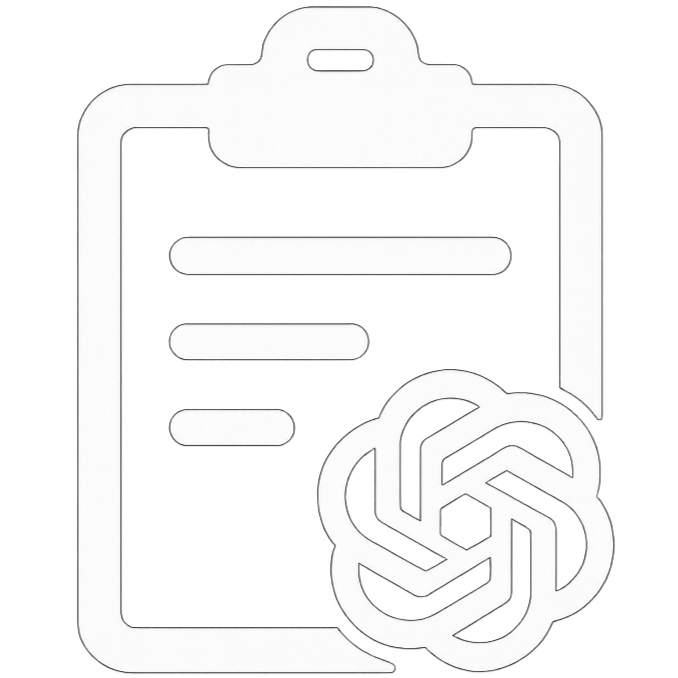
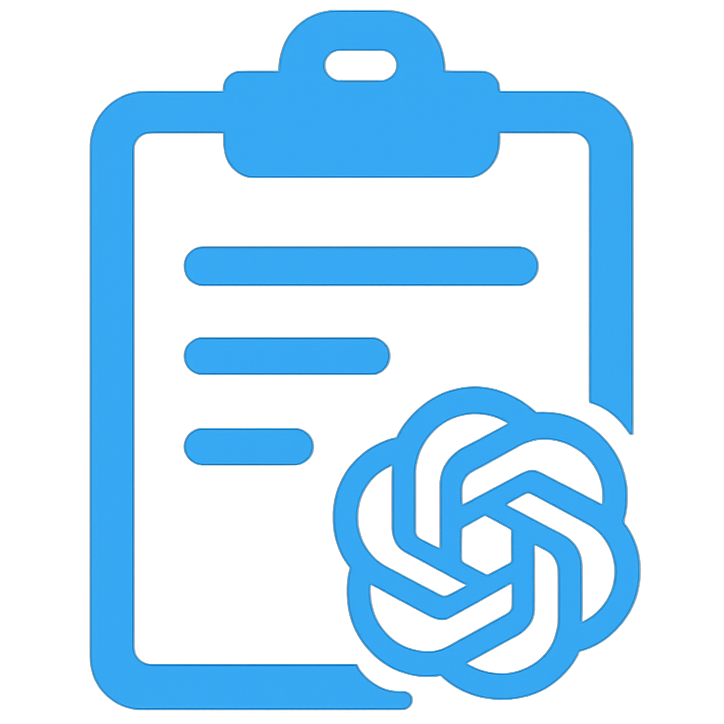
수정 저장버튼 위치조절, 이미지화, 파비콘 변경, 모바일 화면 cliplist maxheight조정 데스크톱버전에서 로그아웃, 다크모드 버튼 clipcontent가 길어서 아래로 스크롤해도 안따라가게 고정시킴

diff --git a/src/clip.js b/src/clip.js
@@ -144,83 +144,70 @@ export function renderClipList(categoryId) {
 export function renderClipContent(clip) {
   setCurrentClip(clip);
   const container = document.querySelector(".clip-content");
-  container.innerHTML = `
-    <h3>${clip.title}</h3>
- 
-    <div>${marked.parse(clip.content)}</div>
-    <p class="clip-from" style="font-size: 0.9em; color: #888;">
+  const contentArea = container.querySelector(".clip-body");
+
+  contentArea.innerHTML = `
+    <h1 title="${clip.title}">${clip.title}</h1>
+    <div class="controls">
+      <button class="edit" data-mode="edit" title="클립 수정">  
+        <img class='editCilp' src="./image/editClip.png" alt="수정" />
+      </button>
+    </div> 
+    <div class="markdown-content" title="클립 내용">${marked.parse(
+      clip.content
+    )}</div>
+    <p class="clip-from" style="font-size: 0.9em; color: #888;" title="출처">
       출처: ${clip.from || "없음"}
     </p>
-    <div class="controls">
-      <button class="edit" data-mode="edit">수정</button>
-    </div>
   `;
   container.classList.remove("hidden");
 
-  container.querySelector(".edit").addEventListener("click", () => {
-    enableClipEdit(container, clip);
+  contentArea.querySelector(".edit").addEventListener("click", () => {
+    enableClipEdit(contentArea, clip);
   });
 }
 
 function enableClipEdit(container, clip) {
-  const titleEl = container.querySelector("h3");
-  const contentEl = container.querySelector("div");
-
-  if (!titleEl || !contentEl) return;
-
-  const fromEl = container.querySelector(".clip-from");
-  if (fromEl) fromEl.remove();
-
-  const originalTitle = clip.title;
-  const originalContent = clip.content;
-
   const titleInput = document.createElement("input");
   titleInput.className = "temp-input";
-  titleInput.value = originalTitle;
+  titleInput.value = clip.title;
 
   const contentInput = document.createElement("textarea");
   contentInput.className = "temp-input";
-  contentInput.value = originalContent;
-  contentInput.rows = 6;
+  contentInput.value = clip.content;
+  contentInput.rows = 10;
 
   const fromInput = document.createElement("input");
   fromInput.className = "temp-input";
   fromInput.value = clip.from || "";
   fromInput.placeholder = "출처 입력 (예: 채팅방 이름)";
 
-  titleEl.replaceWith(titleInput);
-  contentEl.replaceWith(contentInput);
-  container.insertBefore(fromInput, container.querySelector(".controls"));
+  const saveButton = document.createElement("button");
+  saveButton.className = "edit";
+  saveButton.innerHTML = `<img src="./image/saveClip.png" title="클립 저장" alt="저장" style="height: 24px;" />`;
+  saveButton.style.backgroundColor = "transparent";
+  saveButton.style.border = "none";
+  saveButton.setAttribute("data-mode", "save");
 
-  const button = container.querySelector(".edit");
-  button.textContent = "저장";
-  button.style.backgroundColor = "#ff3b30"; // 붉은색
-  button.setAttribute("data-mode", "save");
+  container.innerHTML = ""; // 이전 내용 초기화
 
-  const save = () => {
+  container.appendChild(titleInput); // 제목
+  container.appendChild(saveButton); // 저장 버튼
+  container.appendChild(contentInput); // 내용
+  container.appendChild(fromInput); // 출처
+
+  saveButton.onclick = () => {
     const newTitle = titleInput.value.trim();
     const newContent = contentInput.value.trim();
     const newFrom = fromInput.value.trim();
-
     if (!newTitle || !newContent) return;
 
-    // 데이터 반영
     clip.title = newTitle;
     clip.content = newContent;
     clip.from = newFrom;
-    setClipData([...clipData]); // 🔥 Firestore 동기화
 
-    const clipEls = document.querySelectorAll(".clip");
-    clipEls.forEach((el) => {
-      if (el.dataset.id === clip.id) {
-        const titleEl = el.querySelector(".title");
-        if (titleEl) titleEl.textContent = newTitle;
-      }
-    });
-    // 다시 렌더링
-    renderClipList(clip.categoryId); // ✅ 리스트 다시 렌더링
-    renderClipContent(clip); // ✅ 오른쪽도 다시 렌더링
+    setClipData([...clipData]); // Firestore 반영
+    renderClipList(clip.categoryId);
+    renderClipContent(clip);
   };
-
-  button.addEventListener("click", save);
 }

diff --git a/style.css b/style.css
@@ -207,6 +207,7 @@ input.temp-input:focus {
 }
 .clip input.temp-input {
   flex: 1;
+  margin: 5px 0;
   padding: 6px 8px;
   font-size: 14px;
   border: 1px solid #ccc;
@@ -236,20 +237,24 @@ textarea.temp-input {
 
 /* 클립 내용 */
 .clip-content {
-  /* width: 40%; */
+  position: relative;
   flex: 0.55;
   padding: 20px;
   background-color: #e9e9e9;
   overflow-y: auto;
   padding-top: 35px;
 }
-
-.clip-content h3 {
-  margin-top: 0;
+.button-bar {
+  position: absolute;
+  right: 0;
 }
 
-.clip-content .controls {
-  margin-top: 15px;
+.button-bar button,
+.button-bar .darkmode-toggle {
+  margin-left: 10px;
+}
+.clip-content h3 {
+  margin-top: 0;
 }
 
 button {
@@ -262,14 +267,17 @@ button {
 }
 
 button.edit {
-  background-color: #007aff;
+  background-color: transparent;
   color: white;
+}
+button.edit img {
+  width: 50px;
+  height: 50px !important;
 }
 .darkmode-toggle {
   position: absolute;
-  top: 20px;
+  top: -30px;
   right: 120px;
-  z-index: 20;
   cursor: pointer;
 }
 
@@ -306,7 +314,6 @@ body:not(.dark-mode) .toggle-icon::before {
   align-items: center;
   flex-direction: column;
   overflow: hidden;
-  z-index: 0;
 }
 
 .auth-area::before {
@@ -318,12 +325,10 @@ body:not(.dark-mode) .toggle-icon::before {
   bottom: 0;
   backdrop-filter: blur(2px);
   background-color: rgba(0, 0, 0, 0.2);
-  z-index: 1;
 }
 
 .auth-area * {
   position: relative;
-  z-index: 2;
 }
 
 #login-btn {
@@ -343,13 +348,9 @@ body:not(.dark-mode) .toggle-icon::before {
 /* 🔥 로그아웃 버튼은 고정된 오른쪽 상단 */
 #logout-btn {
   position: absolute;
-  top: 10px;
+  top: -40px;
   right: 20px;
   background-color: transparent;
-  font-weight: bold;
-  border-radius: 6px;
-  border: none;
-  z-index: 10;
   padding: 0;
   margin: 0;
 }
@@ -357,9 +358,9 @@ body:not(.dark-mode) .toggle-icon::before {
   width: 100px;
   height: 100px;
 }
-.hidden {
+/* .hidden {
   display: none !important;
-}
+} */
 
 @media (max-width: 1000px) {
   .app-container {
@@ -405,12 +406,11 @@ body:not(.dark-mode) .toggle-icon::before {
     border-top: none;
     overflow-x: hidden;
     border-bottom: 2px solid #4aa055;
+    max-height: 400px; /* 모바일에서 높이 제한 */
   }
-
   .clip-content {
     margin-top: 0;
   }
-
   /* 버튼 여백 정리 */
   .add-category,
   .add-clip,

diff --git a/index.html b/index.html
@@ -34,11 +34,22 @@
       </section>
 
       <!-- 클립 내용 보기 -->
-      <section class="clip-content"></section>
-      <label class="darkmode-toggle hidden">
-        <input type="checkbox" id="toggle-darkmode" hidden />
-        <span class="toggle-icon"></span>
-      </label>
+      <section class="clip-content">
+        <div class="button-bar">
+          <button id="logout-btn" class="hidden">
+            <img
+              id="logout-img"
+              src="./image/logoutForBright.png"
+              alt="logout"
+            />
+          </button>
+          <label class="darkmode-toggle hidden">
+            <input type="checkbox" id="toggle-darkmode" hidden />
+            <span class="toggle-icon"></span>
+          </label>
+        </div>
+        <div class="clip-body"></div>
+      </section>
     </div>
 
     <div class="auth-area">
@@ -46,8 +57,5 @@
         <img class="googleAuth" src="./image/googleLoginBrighter.png" />
       </button>
     </div>
-    <button id="logout-btn" class="hidden">
-      <img id="logout-img" src="./image/logoutForBright.png" alt="logout" />
-    </button>
   </body>
 </html>
